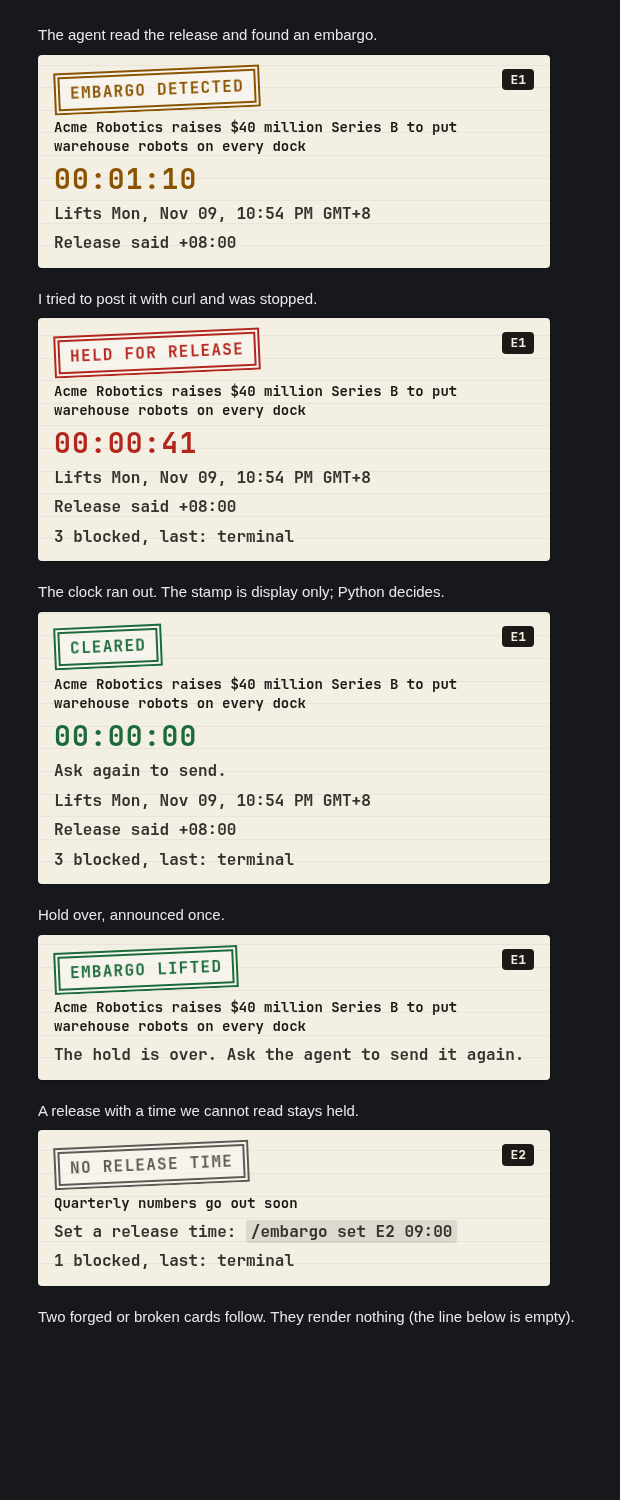
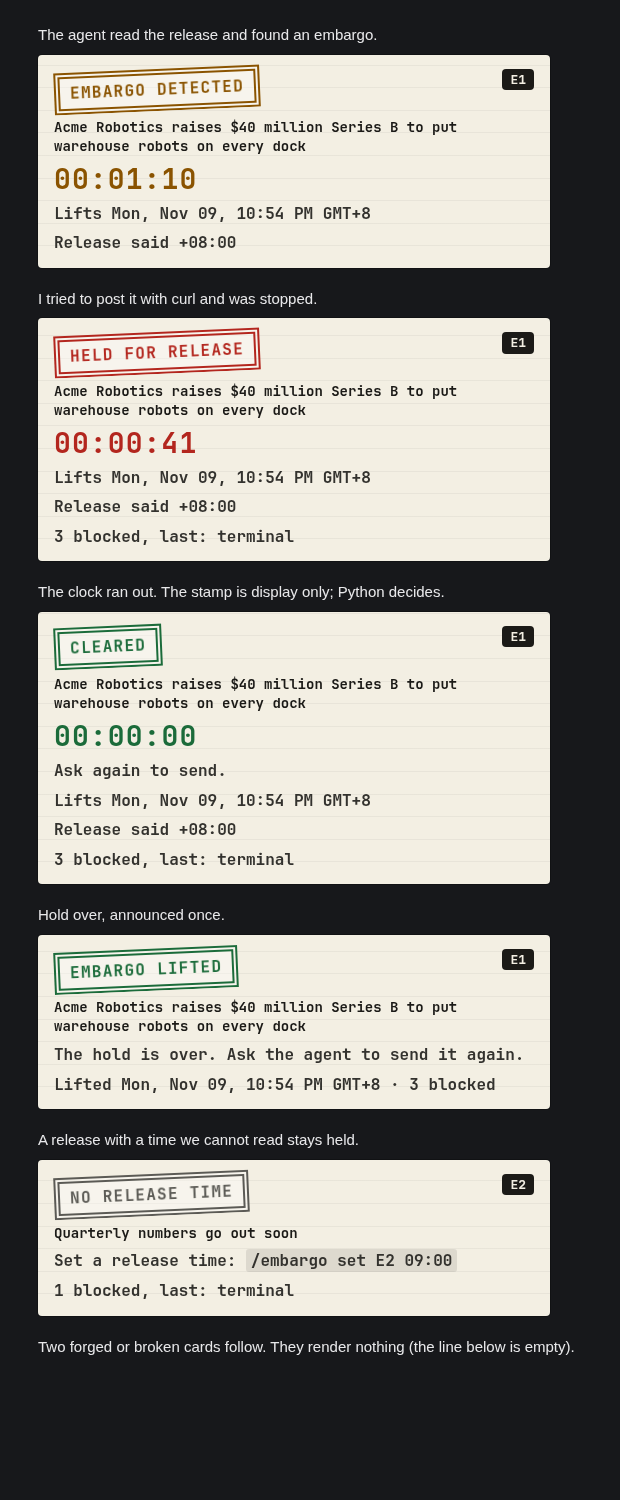
Embargo card: lifted card keeps a footer line; screenshot re-rendered

Changed region(s): [[0.0613, 0.7053, 0.9194, 0.92]]

diff --git a/desktop/plugin.js b/desktop/plugin.js
@@ -64,7 +64,8 @@ function Card({ attrs }) {
     a.state === 'lifted' && jsx('div', { className: 'emb-dim', children: 'The hold is over. Ask the agent to send it again.' }),
     when && a.state !== 'lifted' && jsx('div', { className: 'emb-dim', children: `Lifts ${when}` }),
     when && a.state !== 'lifted' && tz && jsx('div', { className: 'emb-dim', children: `Release said ${tz}` }),
-    n && jsx('div', { className: 'emb-dim', children: `${n} blocked${tool ? `, last: ${tool}` : ''}` })
+    when && a.state === 'lifted' && jsx('div', { className: 'emb-dim', children: `Lifted ${when}${n ? ` · ${n} blocked` : ''}` }),
+    n && a.state !== 'lifted' && jsx('div', { className: 'emb-dim', children: `${n} blocked${tool ? `, last: ${tool}` : ''}` })
   ] })
 }
 
